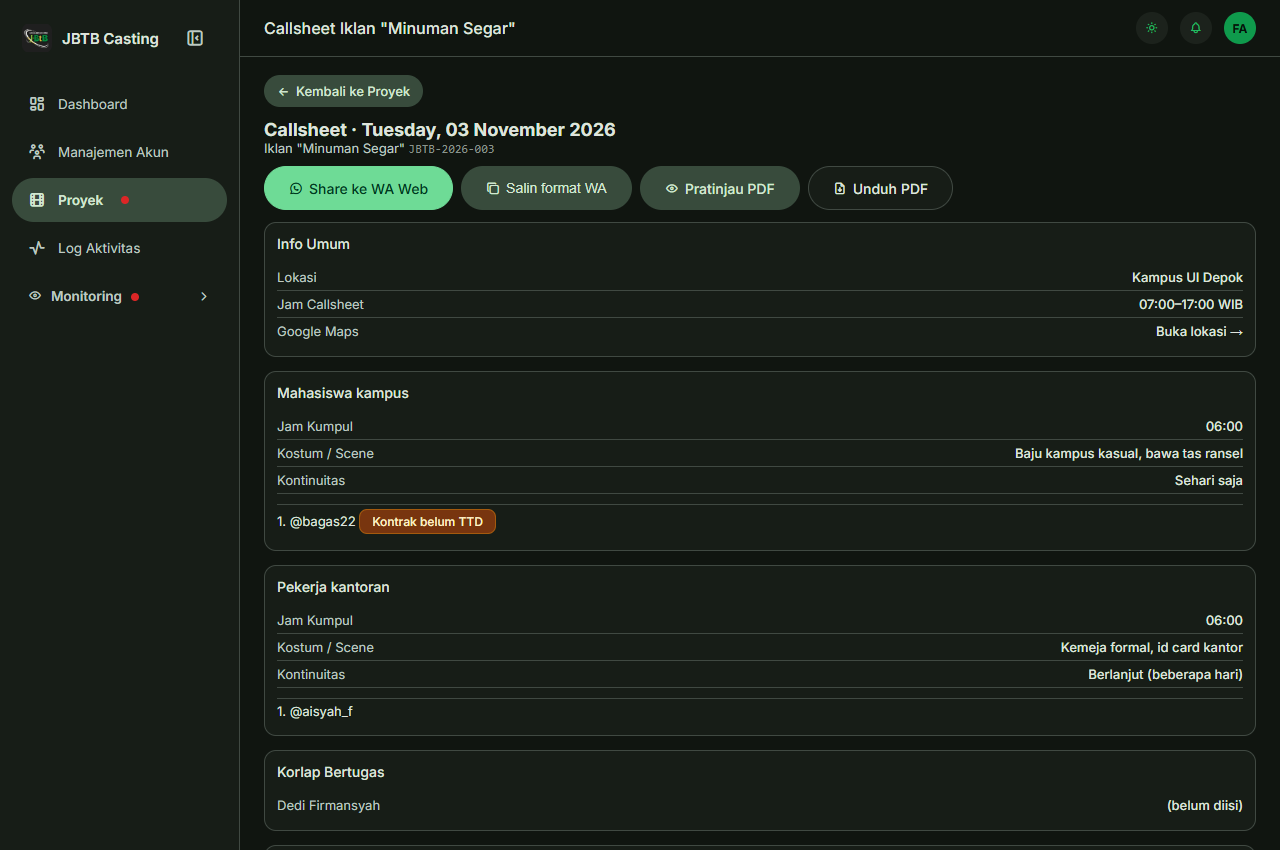
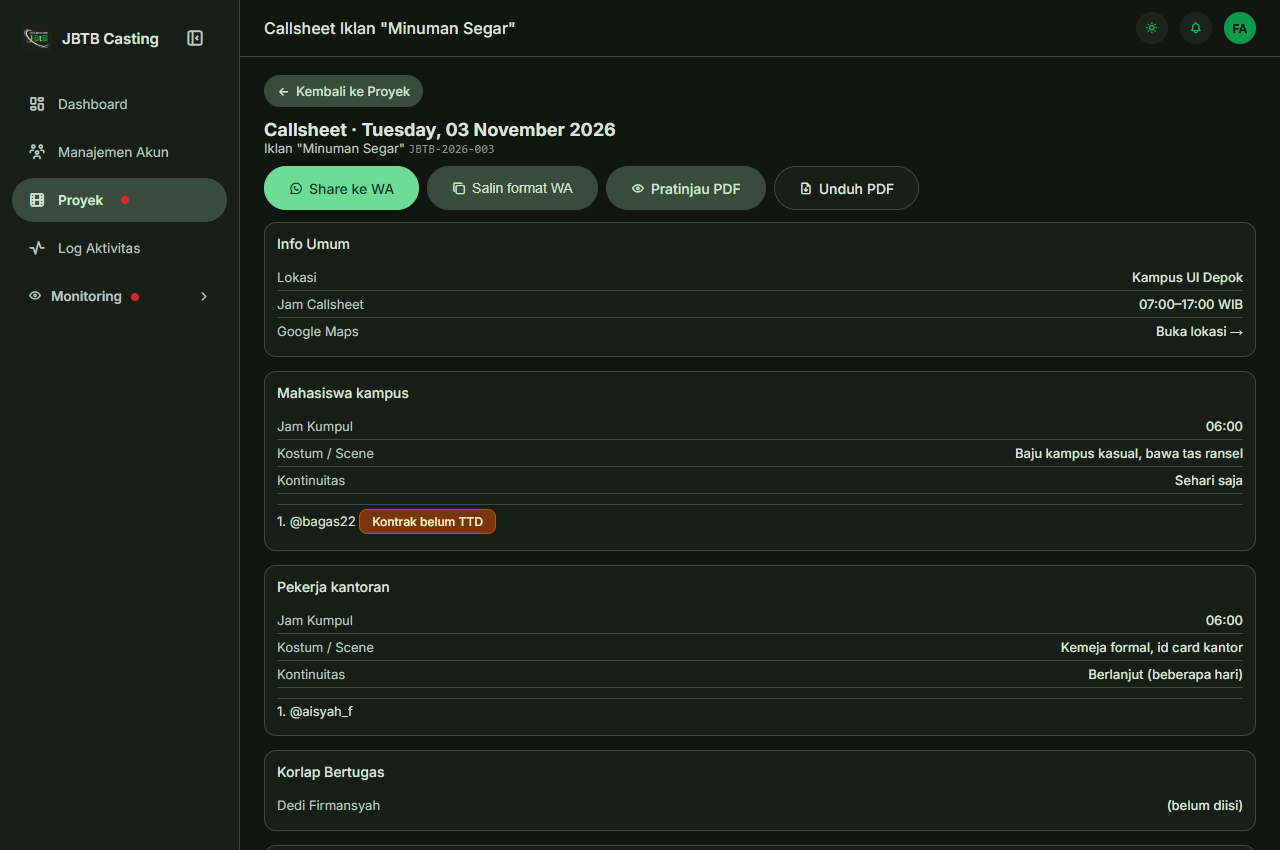
feat(callsheet): seragamkan tombol share ke wa universal untuk aplikasi dan web

Changed region(s): [[0.3125, 0.1835, 0.7188, 0.2447]]

diff --git a/resources/views/admin/callsheet/show.blade.php b/resources/views/admin/callsheet/show.blade.php
@@ -14,8 +14,8 @@
         <div style="font-size: var(--fs-sm); color: var(--text-secondary);">{{ $castingProject->nama_produksi }} <span class="kode-proyek">{{ $castingProject->kode_proyek }}</span></div>
     </div>
     <div style="display: flex; gap: 8px; flex-wrap: wrap;">
-        <a href="https://web.whatsapp.com/send?text={{ rawurlencode($teksWa) }}" target="_blank" rel="noopener" class="btn btn-brand callsheet-btn-wa-web" data-log-url="{{ route('admin.callsheet.salin', [$castingProject, $shootingDate->tanggal->toDateString()]) }}" style="display: inline-flex; align-items: center; gap: 6px;">
-            <i class="ti ti-brand-whatsapp"></i> Share ke WA Web
+        <a href="https://api.whatsapp.com/send?text={{ rawurlencode($teksWa) }}" target="_blank" rel="noopener" class="btn btn-brand callsheet-btn-wa" data-log-url="{{ route('admin.callsheet.salin', [$castingProject, $shootingDate->tanggal->toDateString()]) }}" style="display: inline-flex; align-items: center; gap: 6px;">
+            <i class="ti ti-brand-whatsapp"></i> Share ke WA
         </a>
         <button type="button" class="btn btn-tonal" id="callsheet-salin-wa" data-log-url="{{ route('admin.callsheet.salin', [$castingProject, $shootingDate->tanggal->toDateString()]) }}">
             <i class="ti ti-copy"></i> Salin format WA
@@ -112,8 +112,8 @@
     <div style="display: flex; justify-content: space-between; align-items: center; flex-wrap: wrap; gap: 10px; margin-bottom: 12px;">
         <div class="card-title" style="margin: 0;">Pratinjau Teks WA</div>
         <div style="display: flex; gap: 8px; flex-wrap: wrap; align-items: center;">
-            <a href="https://web.whatsapp.com/send?text={{ rawurlencode($teksWa) }}" target="_blank" rel="noopener" class="btn btn-sm btn-brand callsheet-btn-wa-web" data-log-url="{{ route('admin.callsheet.salin', [$castingProject, $shootingDate->tanggal->toDateString()]) }}" style="display: inline-flex; align-items: center; gap: 6px;">
-                <i class="ti ti-brand-whatsapp"></i> Share ke WA Web
+            <a href="https://api.whatsapp.com/send?text={{ rawurlencode($teksWa) }}" target="_blank" rel="noopener" class="btn btn-sm btn-brand callsheet-btn-wa" data-log-url="{{ route('admin.callsheet.salin', [$castingProject, $shootingDate->tanggal->toDateString()]) }}" style="display: inline-flex; align-items: center; gap: 6px;">
+                <i class="ti ti-brand-whatsapp"></i> Share ke WA
             </a>
             <button type="button" class="btn btn-sm btn-tonal" id="callsheet-salin-wa-card" data-log-url="{{ route('admin.callsheet.salin', [$castingProject, $shootingDate->tanggal->toDateString()]) }}" style="display: inline-flex; align-items: center; gap: 6px;">
                 <i class="ti ti-copy"></i> Salin format WA
@@ -150,7 +150,7 @@
         });
     });
 
-    document.querySelectorAll('.callsheet-btn-wa-web').forEach(function (el) {
+    document.querySelectorAll('.callsheet-btn-wa').forEach(function (el) {
         el.addEventListener('click', function (e) {
             var logUrl = el.dataset.logUrl;
             if (logUrl) {
@@ -158,11 +158,6 @@
                     method: 'POST',
                     headers: { 'X-CSRF-TOKEN': document.querySelector('meta[name=csrf-token]').content }
                 });
-            }
-            var isMobile = /Android|iPhone|iPad|iPod/i.test(navigator.userAgent);
-            if (isMobile) {
-                e.preventDefault();
-                window.open('https://api.whatsapp.com/send?text=' + encodeURIComponent(teks.value), '_blank');
             }
         });
     });

diff --git a/resources/views/layouts/app.blade.php b/resources/views/layouts/app.blade.php
@@ -1343,7 +1343,9 @@
                     var dlg = document.createElement('dialog');
                     dlg.id = 'kredensial-dialog';
                     dlg.style.cssText = 'border:1px solid var(--border-color);border-radius:10px;padding:0;max-width:440px;width:calc(100% - 32px);';
-                    var wa = k.nomor_wa ? '<a class="btn" target="_blank" rel="noopener" href="https://wa.me/' + k.nomor_wa + '?text=' + encodeURIComponent(teks) + '"><i class="ti ti-brand-whatsapp"></i> Kirim via WA</a>' : '';
+                    var wa = k.nomor_wa
+                        ? '<a class="btn" target="_blank" rel="noopener" href="https://api.whatsapp.com/send?phone=' + k.nomor_wa + '&text=' + encodeURIComponent(teks) + '"><i class="ti ti-brand-whatsapp"></i> Kirim via WA</a>'
+                        : '<a class="btn" target="_blank" rel="noopener" href="https://api.whatsapp.com/send?text=' + encodeURIComponent(teks) + '"><i class="ti ti-brand-whatsapp"></i> Share ke WA</a>';
                     dlg.innerHTML = '<div style="padding:18px;">'
                         + '<div id="kredensial-judul" style="font-size:var(--fs-md);font-weight:600;margin-bottom:6px;"></div>'
                         + '<p style="font-size:var(--fs-sm);color:var(--text-muted);margin:0 0 12px;">Hanya tampil sekali. Kalau terlanjur tertutup, pakai "Reset Password" untuk membuat yang baru.</p>'

diff --git a/resources/views/partials/kredensial-dialog.blade.php b/resources/views/partials/kredensial-dialog.blade.php
@@ -10,7 +10,9 @@
         <div style="display: flex; gap: 8px; flex-wrap: wrap; justify-content: flex-end;">
             <button type="button" class="btn" onclick="this.closest('dialog').close()">Tutup</button>
             @if (! empty($k["nomor_wa"]))
-            <a class="btn" target="_blank" rel="noopener" href="https://wa.me/{{ $k["nomor_wa"] }}?text={{ rawurlencode($teksKredensial) }}"><i class="ti ti-brand-whatsapp"></i> Kirim via WA</a>
+            <a class="btn" target="_blank" rel="noopener" href="https://api.whatsapp.com/send?phone={{ $k["nomor_wa"] }}&text={{ rawurlencode($teksKredensial) }}"><i class="ti ti-brand-whatsapp"></i> Kirim via WA</a>
+            @else
+            <a class="btn" target="_blank" rel="noopener" href="https://api.whatsapp.com/send?text={{ rawurlencode($teksKredensial) }}"><i class="ti ti-brand-whatsapp"></i> Share ke WA</a>
             @endif
             <button type="button" class="btn btn-brand" id="kredensial-salin">Salin semua</button>
         </div>

diff --git a/resources/views/extras/profile-show.blade.php b/resources/views/extras/profile-show.blade.php
@@ -29,9 +29,9 @@
         </div>
         <p id="share-copied-modal" style="display:none; color:var(--accent); font-size:12px; margin:-10px 0 12px;">Link disalin!</p>
 
-        <a href="https://wa.me/?text={{ urlencode(route('public.extras.profile', $profile->share_token)) }}" target="_blank" rel="noopener"
+        <a href="https://api.whatsapp.com/send?text={{ urlencode(route('public.extras.profile', $profile->share_token)) }}" target="_blank" rel="noopener"
             style="display:flex; align-items:center; justify-content:center; gap:8px; width:100%; padding:10px; border-radius:10px; background:#25d366; color:#fff; text-decoration:none; font-size:14px; font-weight:600; box-sizing:border-box;">
-            <i class="ti ti-brand-whatsapp" style="font-size:18px;"></i> WhatsApp
+            <i class="ti ti-brand-whatsapp" style="font-size:18px;"></i> Share ke WA
         </a>
     </div>
 </dialog>

diff --git a/CT-CATATAN.md b/CT-CATATAN.md
@@ -515,29 +515,30 @@ Halaman kebijakan privasi awal (`resources/views/privacy-policy.blade.php`) hany
 
 ---
 
-## 23. Tombol Share Langsung ke WhatsApp Web pada Callsheet Shooting
+## 23. Tombol Share Langsung ke WhatsApp (Aplikasi & Web) pada Callsheet Shooting
 
 ### Masalah Awal:
-Pada halaman callsheet shooting (`/admin/projects/{id}/callsheet/{tanggal}`), pengguna sebelumnya hanya memiliki opsi menyalin teks callsheet secara manual melalui tombol "Salin format WA", lalu harus membuka WhatsApp Web, mencari kontak/grup, dan menempelkan teks tersebut secara manual. Pengguna meminta penambahan tombol untuk membagikan (*share*) langsung teks callsheet ke WhatsApp Web agar dapat langsung memilih kontak atau grup tujuan.
+Pada halaman callsheet shooting (`/admin/projects/{id}/callsheet/{tanggal}`), pengguna sebelumnya hanya memiliki opsi menyalin teks callsheet secara manual melalui tombol "Salin format WA", lalu harus membuka WhatsApp, mencari kontak/grup, dan menempelkan teks tersebut secara manual. Pengguna meminta penambahan tombol untuk membagikan (*share*) langsung teks callsheet ke WhatsApp (baik aplikasi desktop/mobile maupun web) dengan label ringkas "Share ke WA" agar dapat langsung memilih kontak atau grup tujuan.
 
 ### Solusi & Implementasi:
-1. **Penambahan Tombol "Share ke WA Web" pada Bagian Pratinjau Teks WA**:
-   - Di `resources/views/admin/callsheet/show.blade.php`, menambahkan tombol `[Share ke WA Web]` (`.btn-brand` dengan ikon `<i class="ti ti-brand-whatsapp"></i>`) tepat di atas kotak textarea "Pratinjau Teks WA" bersanding dengan tombol `[Salin format WA]`.
-   - Mengarahkan ke skema URL resmi `https://web.whatsapp.com/send?text={encoded_teks}` (tanpa nomor tujuan), sehingga saat diklik di peramban desktop, WhatsApp Web akan otomatis membuka daftar obrolan dan mempersiapkan teks callsheet di kotak ketik obrolan saat kontak atau grup dipilih.
-   - Menyertakan deteksi perangkat bergerak (mobile user agent) via JavaScript: jika dibuka di ponsel pintar, tautan akan dialihkan ke `https://api.whatsapp.com/send?text=` untuk membuka aplikasi native WhatsApp.
-2. **Penambahan Tombol pada Baris Aksi Atas (*Header Action*)**:
-   - Menambahkan tombol aksi cepat `[Share ke WA Web]` pada `card-header-row` di bagian atas halaman callsheet, sejajar dengan tombol Salin format WA, Pratinjau PDF, dan Unduh PDF.
-3. **Pencatatan Log Aktivitas (*Activity Log*)**:
-   - Menghubungkan klik tombol "Share ke WA Web" dengan endpoint `admin.callsheet.salin` via `fetch()` di sisi klien untuk mencatat log aktivitas `CALLSHEET_EXPORT` (`format: wa`) secara otomatis.
+1. **Penambahan Tombol Universal "Share ke WA"**:
+   - Di `resources/views/admin/callsheet/show.blade.php`, menambahkan tombol `[Share ke WA]` (`.btn-brand` dengan ikon `<i class="ti ti-brand-whatsapp"></i>`) pada header kartu "Pratinjau Teks WA" serta pada baris aksi atas halaman.
+   - Menggunakan skema universal `https://api.whatsapp.com/send?text={encoded_teks}` (tanpa mengunci nomor tujuan):
+     - Di komputer dengan aplikasi WhatsApp terinstal (Windows/macOS), peramban akan langsung memicu pembukaan aplikasi WhatsApp.
+     - Di komputer tanpa aplikasi WhatsApp, tersedia opsi pembukaan instan via WhatsApp Web.
+     - Di ponsel pintar (mobile), langsung membuka aplikasi WhatsApp native.
+   - Menyeragamkan teks dan skema ke seluruh bagian aplikasi yang menyediakan fitur share ke WhatsApp (`profile-show.blade.php`, `kredensial-dialog.blade.php`, `app.blade.php`).
+2. **Pencatatan Log Aktivitas (*Activity Log*)**:
+   - Menghubungkan klik tombol "Share ke WA" dengan endpoint `admin.callsheet.salin` via `fetch()` di sisi klien untuk mencatat log aktivitas `CALLSHEET_EXPORT` (`format: wa`) secara otomatis.
 
 ### Hasil Pengujian & Matriks Screenshot:
 - **Pint**: PASS (0 issues).
-- **Test Suite (`CallsheetTest`)**:
-  - SQLite: **15 passed (49 assertions)**.
-  - MySQL (`jbtb_test`): **15 passed (49 assertions)**.
+- **Test Suite (`CallsheetTest`, `CdHubungiWaTest`)**:
+  - SQLite: **20 passed (143 assertions)**.
+  - MySQL (`jbtb_test`): **20 passed (143 assertions)**.
 - **Screenshot Baru (`ct-screenshots/`)**:
-  - `callsheet_wa_share_bottom_dark.png` (Kartu Pratinjau Teks WA dengan tombol Share ke WA Web & Salin)
-  - `callsheet_wa_share_top_light.png` (Bilah aksi atas dengan tombol Share ke WA Web)
+  - `callsheet_wa_share_bottom_dark.png` (Kartu Pratinjau Teks WA dengan tombol Share ke WA & Salin)
+  - `callsheet_wa_share_top_light.png` (Bilah aksi atas dengan tombol Share ke WA)
 
 
 
